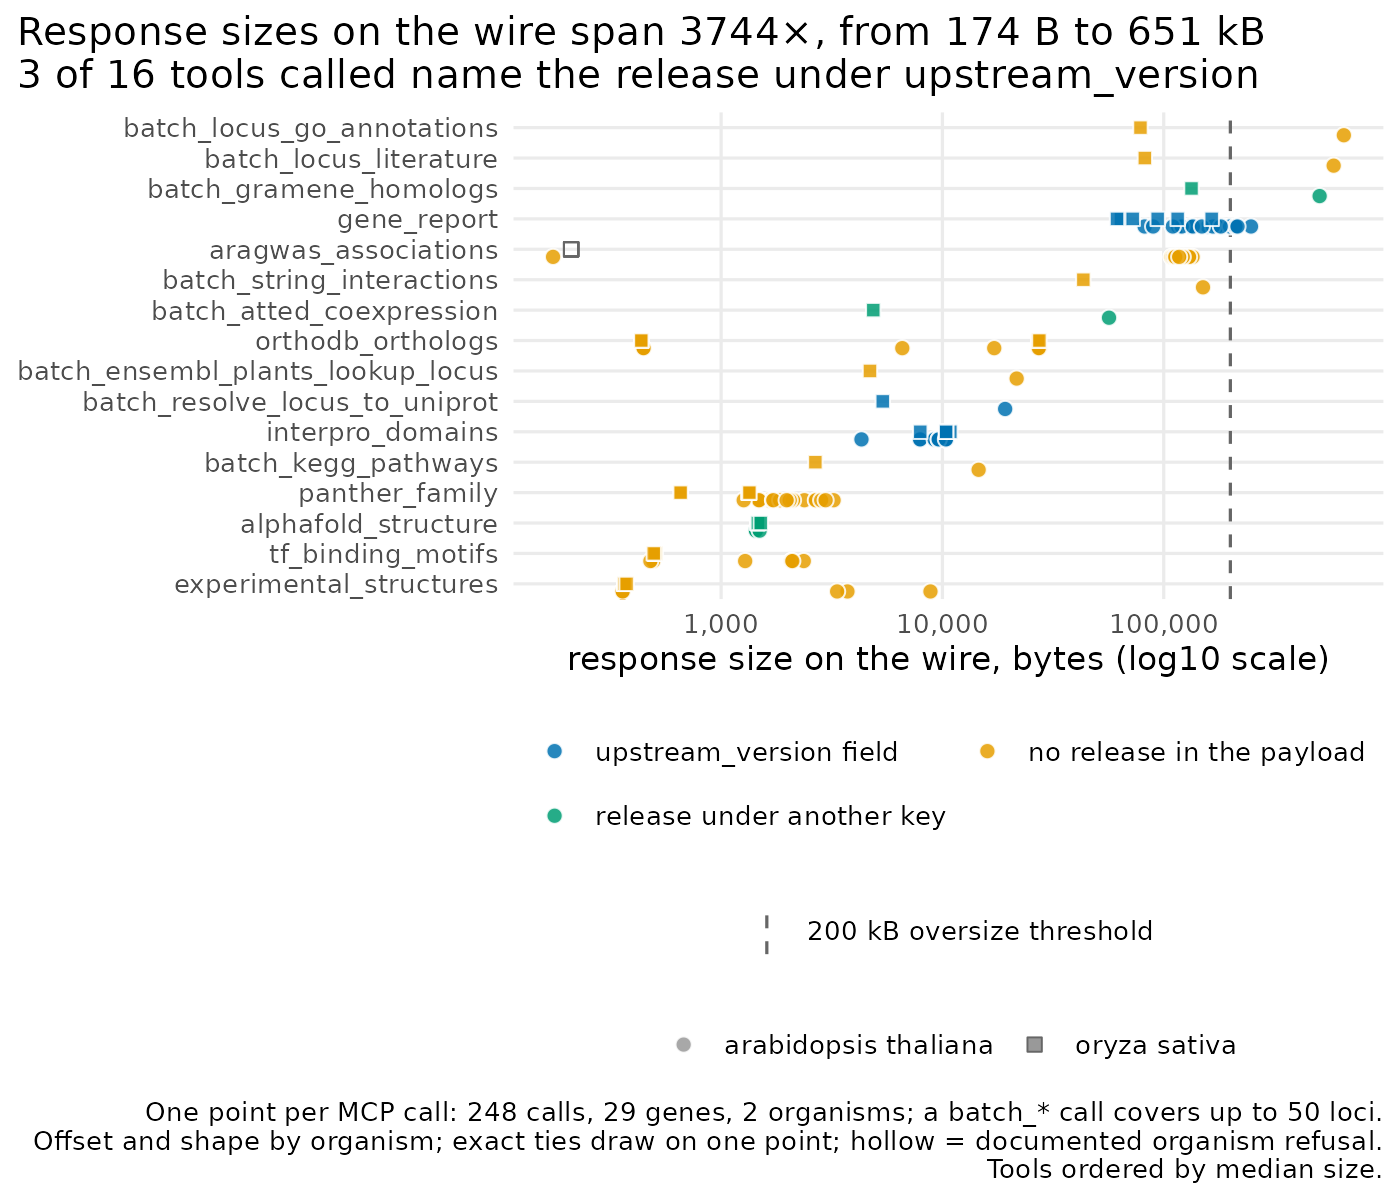
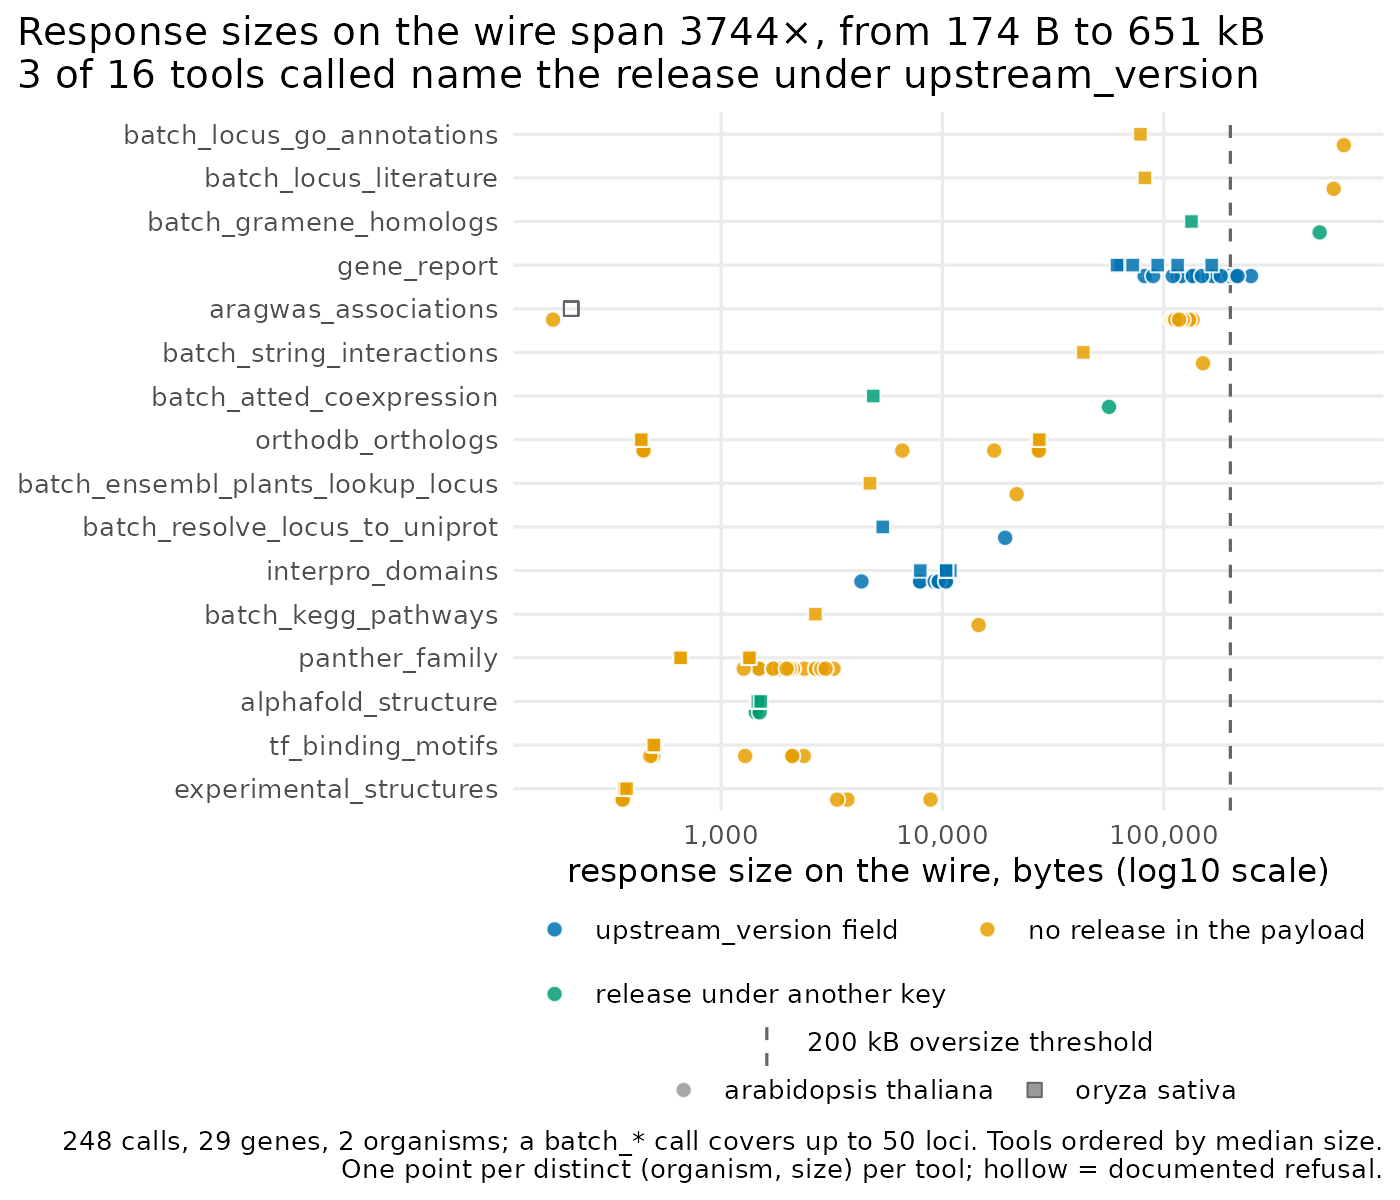
examples: fix round 3 — figure paragraph derived from calls.jsonl, calls-count control, compact legend, property comments
- PAGE.md: per-locus tools draw one point per distinct (organism, byte
  count), 6 (experimental_structures) to 29 (gene_report); new test
  recounts calls.jsonl for both extremes
- README-numbers control mutates the call count as well as the gap
  count; the mutant that drops the calls assertion now fails
- theme_pgmcp.R: legend spacing collapsed so the panel regains height;
  caption two lines, no 'one point per call'
- comments and docstrings state the property each guards

diff --git a/tests/test_arf_readme_numbers.py b/tests/test_arf_readme_numbers.py
@@ -1,12 +1,15 @@
-"""The two README sentences that describe the ARF dossier run carry its
-numbers — call count and gap count — and nothing else in the suite reads
-them: after the full-family run they still said "48-call" and "30 gaps"
-(round 1 of the task-7 review). Both numbers are derived here from the
-committed artifacts and must appear in both sentences.
+"""Prose counts about the ARF dossier run are claims about committed files
+and are derived from them here: the two README sentences carry the call
+and gap counts, and the PAGE.md figure paragraph carries the per-tool
+range of distinct positions the figure draws. Nothing else in the suite
+reads these sentences, so a re-run that changes a count would otherwise
+leave stale numbers in public text.
 """
 
 from __future__ import annotations
 
+import json
+import re
 from pathlib import Path
 
 import pytest
@@ -39,10 +42,40 @@ def test_readme_sentences_carry_the_run_counts():
         _check_sentence(text, calls, gaps, readme.name)
         checked += 1
 
-        # Positive control: the same check on the same README with the gap
-        # count off by one must fail, and the edit must really have landed.
-        stale = text.replace(f"{gaps} gaps", f"{gaps - 1} gaps")
-        assert stale != text
-        with pytest.raises(AssertionError, match=f"{gaps - 1} gaps"):
-            _check_sentence(stale, calls, gaps, readme.name)
+        # Positive control: the same check on the same README with either
+        # count off by one must fail, and each edit must really have landed.
+        for old, new in (
+            (f"{gaps} gaps", f"{gaps - 1} gaps"),
+            (f"{calls}-call", f"{calls - 1}-call"),
+        ):
+            stale = text.replace(old, new)
+            assert stale != text, old
+            with pytest.raises(AssertionError, match=re.escape(new)):
+                _check_sentence(stale, calls, gaps, readme.name)
     assert checked == 2
+
+
+def _distinct_positions_per_tool() -> dict[str, int]:
+    seen: dict[str, set[tuple[str, int]]] = {}
+    for line in (ARF / "calls.jsonl").read_text().splitlines():
+        if not line.strip():
+            continue
+        r = json.loads(line)
+        seen.setdefault(r["tool"], set()).add((r["organism"], r["n_bytes"]))
+    return {tool: len(v) for tool, v in seen.items() if not tool.startswith("batch_")}
+
+
+def test_page_figure_paragraph_range_is_derived_from_the_calls_log():
+    """The figure draws exact ties on one point, so a per-locus tool draws
+    one point per distinct (organism, byte count); PAGE.md names the two
+    extremes of that range and they must match a recount of calls.jsonl."""
+    counts = _distinct_positions_per_tool()
+    assert len(counts) == 8, counts
+    lo_tool, lo = min(counts.items(), key=lambda kv: (kv[1], kv[0]))
+    hi_tool, hi = max(counts.items(), key=lambda kv: (kv[1], kv[0]))
+    assert lo < hi
+    text = (ARF / "PAGE.md").read_text().replace("\n", " ")
+    claim = f"from {lo} positions for `{lo_tool}` to {hi} for `{hi_tool}`"
+    assert claim in text, claim
+    # The sentence is about the tie rule, and says so.
+    assert "exact ties draw on one point" in text

diff --git a/examples/arf_family/coverage.py b/examples/arf_family/coverage.py
@@ -14,8 +14,7 @@ Three columns beyond the brief's original five:
   surface one under that specific key.
 - `median_elapsed_s` — wall-clock cost per tool, for spotting the slow
   ones without opening `calls.jsonl` by hand.
-- `release_status` — round 1 of the visual review on this table's first
-  figure caught that a null `upstream_version` does not mean "no release
+- `release_status` — a null `upstream_version` does not mean "no release
   reported": `gaps.jsonl`'s hand-logged `version-under-another-key` row
   says three tools (`atted_coexpression`, `gramene_homologs`,
   `alphafold_structure`) return a release under a different field name
@@ -113,9 +112,8 @@ def release_under_another_key_tools(gaps_path: Path, root: Path) -> set[str]:
     row itself is missing, this raises rather than quietly falling back to
     "no tool reports under another key" — the coverage table would then
     read as if the gap this row records had been fixed, when nobody fixed
-    it (round 1 of the visual review on this table's first figure: a null
-    `upstream_version` was read as "no release reported" when three tools
-    report one under a different key).
+    it (a null `upstream_version` would read as "no release reported"
+    when three tools report one under a different key).
     """
     row = None
     with open(gaps_path) as f:

diff --git a/tests/test_enumerate_family.py b/tests/test_enumerate_family.py
@@ -213,8 +213,8 @@ def test_the_ortholog_disagreement_row_matches_a_recount_of_its_own_evidence():
 def test_the_undecidable_row_matches_a_recount_of_family_candidates():
     """The `candidate-undecidable` gap row says how many of the candidates
     could not be decided and how they split by organism; the numbers are
-    re-derived from the TSV the row cites. Review round 2 found "2 of the
-    325" written where the file holds 10 (8 wheat + 2 Arabidopsis)."""
+    re-derived from the TSV the row cites, so the row cannot carry a
+    count typed from an earlier state of the file."""
     with open(ARF_DIR / "family_candidates.tsv") as f:
         cands = list(csv.DictReader(f, delimiter="\t"))
     undecided = [r for r in cands if r["kept"] == "undecided"]

diff --git a/tests/test_arf_coverage.py b/tests/test_arf_coverage.py
@@ -11,9 +11,9 @@ same test so a checker that only ever sees good input can't pass by
 accident), one never called at all (`status == "unused"`), and two that
 exercise `release_status`'s two "called but no `upstream_version`" branches
 — one in `release_under_another_key` (must read `RELEASE_UNDER_ANOTHER_KEY`)
-and one not (must read `RELEASE_ABSENT`), the exact distinction round 1 of
-the visual review caught missing: a null `upstream_version` was being read
-as "no release reported" for tools that do report one, under another key.
+and one not (must read `RELEASE_ABSENT`), the distinction that must not be
+lost: a null `upstream_version` is not "no release reported" for tools
+that report one under another key.
 """
 
 from __future__ import annotations

diff --git a/examples/arf_family/PAGE.md b/examples/arf_family/PAGE.md
@@ -211,11 +211,13 @@ eight `result.sections` entries, read back from
 
 Response sizes on the wire span 3,744×, from 174 B
 (`aragwas_associations` on ATMG00940) to 651 kB
-(`batch_locus_go_annotations` over the 23 Arabidopsis loci). One point
-is one MCP call, so the eight tools with a `batch_` form draw two points
-each (one per organism) and the eight without draw 29; a 100-gene family
-is not readable one point per gene, so the vertical offset is by
-organism, not by gene. Only 3 of the 16 tools called put the upstream
+(`batch_locus_go_annotations` over the 23 Arabidopsis loci). The eight
+tools with a `batch_` form draw two points each (one per organism); the
+eight called per locus draw one point per distinct (organism, byte
+count), since exact ties draw on one point — from 6 positions for
+`experimental_structures` to 29 for `gene_report`. A 100-gene family is
+not readable one point per gene, so the vertical offset is by organism,
+not by gene. Only 3 of the 16 tools called put the upstream
 release in `upstream_version`; 3 more report one under a different key
 (`atted_release`, `release`, `latest_version`), so a single-key read
 scores those null too, and the remaining 10 carry no release at all.
